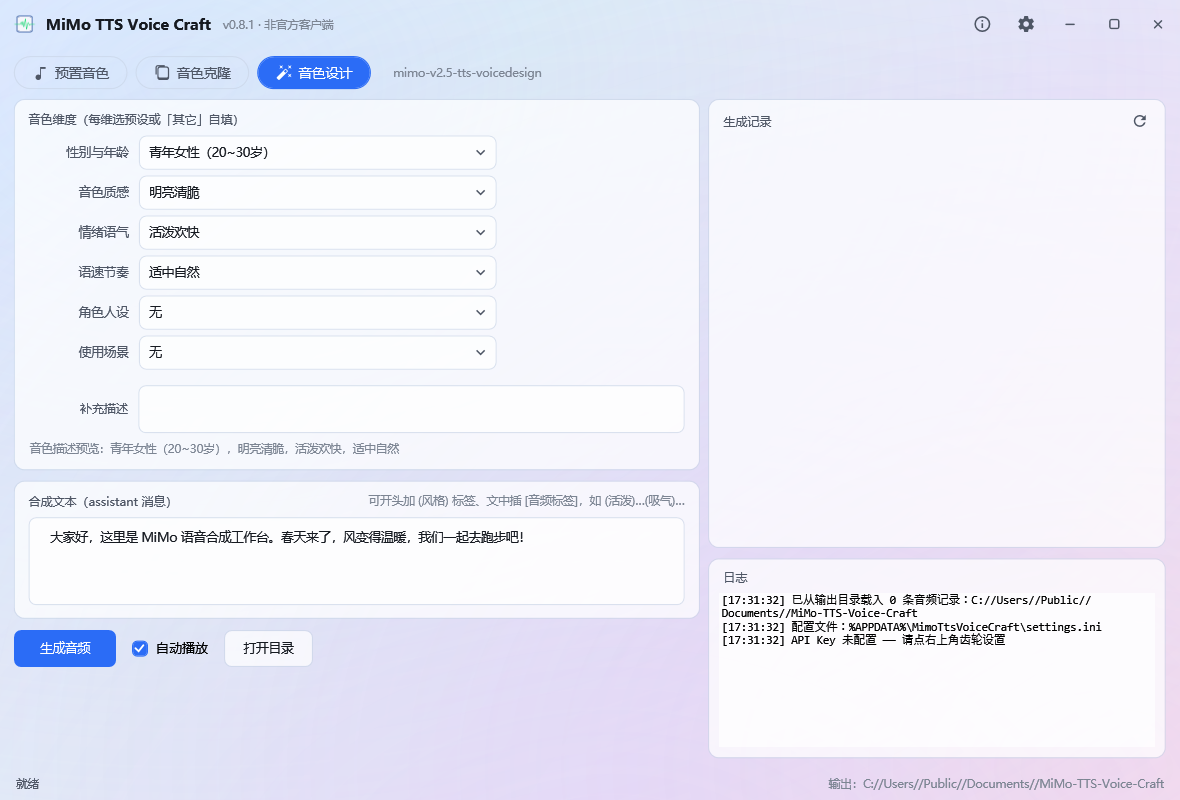
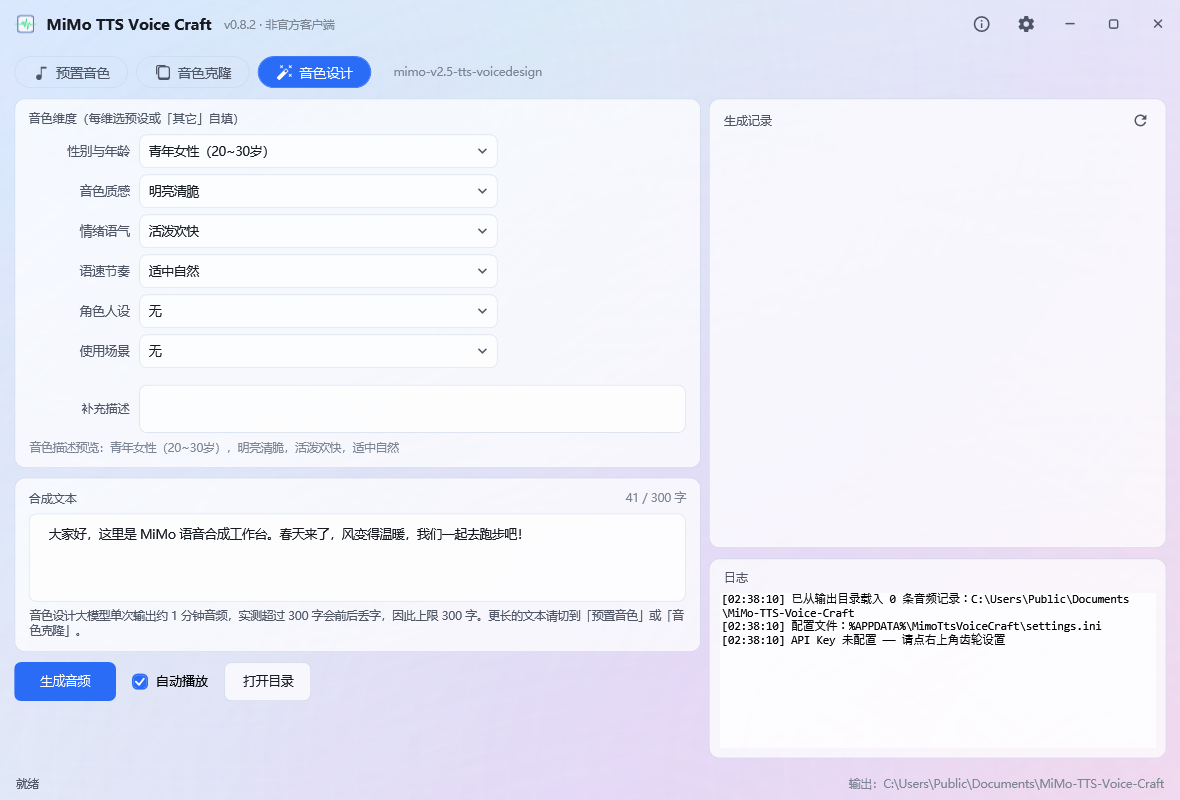
feat: 合成文本字数统计 + 音色设计 300 字上限（v0.8.2）
- 三模块共用的「合成文本」标题精简为「合成文本」，去掉 (assistant 消息) 与行内标签提示
- 右上角新增实时字数统计：预置/克隆显示「N 字」，音色设计显示「N / 300 字」并按余量变色
- 音色设计模式限制 300 字：TextBox MaxLength 前置拦截 + 生成前二次校验（该模型超出后静默前后丢字，不报错）
- 新增设计模式上限说明文字，明确实测依据与替代方案
- 版本号升至 0.8.2，README 补功能说明，界面截图重拍

diff --git a/MainWindow.xaml b/MainWindow.xaml
@@ -100,7 +100,7 @@
                            RenderOptions.BitmapScalingMode="HighQuality" />
                     <TextBlock Text="MiMo TTS Voice Craft" Margin="10,0,0,0" VerticalAlignment="Center"
                                FontSize="15" FontWeight="SemiBold" Foreground="{DynamicResource TextBrush}" />
-                    <TextBlock x:Name="TitleHint" Text="v0.8.1 · 非官方客户端" Margin="12,2,0,0"
+                    <TextBlock x:Name="TitleHint" Text="v0.8.2 · 非官方客户端" Margin="12,2,0,0"
                                VerticalAlignment="Center" Style="{DynamicResource Hint}" />
                 </StackPanel>
                 <StackPanel Orientation="Horizontal" HorizontalAlignment="Right" VerticalAlignment="Center">
@@ -247,14 +247,20 @@
                     <Border Grid.Row="1" Style="{DynamicResource Card}" Padding="14,12" Margin="0,0,0,10">
                         <StackPanel>
                             <Grid Margin="0,0,0,8">
-                                <TextBlock Text="合成文本（assistant 消息）" Style="{DynamicResource Label}" />
-                                <TextBlock HorizontalAlignment="Right" Style="{DynamicResource Hint}"
-                                           Text="可开头加 (风格) 标签、文中插 [音频标签]，如 (活泼)…(吸气)…" />
+                                <TextBlock Text="合成文本" Style="{DynamicResource Label}" />
+                                <TextBlock x:Name="TxtTextCount" HorizontalAlignment="Right"
+                                           Style="{DynamicResource Hint}" Text="0 字"
+                                           ToolTip="当前文本字数；音色设计模式下会同时显示上限" />
                             </Grid>
                             <TextBox x:Name="TxtText" Style="{DynamicResource ModernTextBox}" MinHeight="88"
                                      AcceptsReturn="True" TextWrapping="Wrap" VerticalScrollBarVisibility="Auto"
                                      VerticalContentAlignment="Top" Padding="9,6"
+                                     TextChanged="TxtText_TextChanged"
                                      Text="大家好，这里是 MiMo 语音合成工作台。春天来了，风变得温暖，我们一起去跑步吧！" />
+                            <TextBlock x:Name="DesignLimitHint" Style="{DynamicResource Hint}" Margin="1,7,0,0"
+                                       TextWrapping="Wrap" Visibility="Collapsed"
+                                       Foreground="{DynamicResource SubTextBrush}"
+                                       Text="音色设计大模型单次输出约 1 分钟音频，实测超过 300 字会前后丢字，因此上限 300 字。更长的文本请切到「预置音色」或「音色克隆」。" />
                         </StackPanel>
                     </Border>
 

diff --git a/MainWindow.xaml.cs b/MainWindow.xaml.cs
@@ -21,6 +21,15 @@ public partial class MainWindow : Window
         { "mimo_default", "冰糖", "茉莉", "苏打", "白桦", "Mia", "Chloe", "Milo", "Dean" };
 
     private TtsModelKind _kind = TtsModelKind.Preset;
+
+    /// <summary>
+    /// 音色设计（voicedesign）模型的实用字数上限。
+    /// 实测：该模型输出 token 恒定在 365~526，对应音频 58~84 秒，与输入字数无关；
+    /// 300 字以内内容完整，超过后表现为「开头编造、中间跳跃、结尾断掉」。
+    /// 预置 / 克隆不受此限（预置 2100 字实测 406~418 秒完整）。
+    /// </summary>
+    private const int DesignTextLimit = 300;
+
     // NAudio 播放（每次加载新建一对 output+stream，切换时先释放，避免多路叠加）
     private WaveOutEvent _out;
     private WaveStream _stream;
@@ -111,6 +120,7 @@ public partial class MainWindow : Window
 
         Loaded += (_, _) =>
         {
+            UpdateTextMetrics();               // XAML 里初始文本的字数统计
             _ = Task.Run(WarmUpAudioDevice);   // 后台预热音频端点（静音），避免首次播放丢首缓冲
             RunSelfCheckIfRequested();
             if (App.AudioTestPath != null) RunAudioSelfTest();
@@ -454,6 +464,47 @@ public partial class MainWindow : Window
         PanelDesign.Visibility = _kind == TtsModelKind.Design ? Visibility.Visible : Visibility.Collapsed;
         CardStyle.Visibility = _kind == TtsModelKind.Design ? Visibility.Collapsed : Visibility.Visible;
         ModelIdText.Text = ModelIds.Of(_kind);
+        UpdateTextMetrics();
+    }
+
+    // ---------------- 字数统计 / 设计模型上限 ----------------
+
+    private void TxtText_TextChanged(object sender, TextChangedEventArgs e) => UpdateTextMetrics();
+
+    /// <summary>
+    /// 刷新「合成文本」右上角字数统计：
+    /// 预置 / 克隆只显示「N 字」；音色设计显示「N / 300 字」，接近与超限分别用警示色。
+    /// 同时把文本框 MaxLength 与模式绑定，从输入源头挡住超限。
+    /// </summary>
+    private void UpdateTextMetrics()
+    {
+        if (TxtText == null || TxtTextCount == null || DesignLimitHint == null) return;
+
+        int n = TxtText.Text?.Length ?? 0;
+        bool design = _kind == TtsModelKind.Design;
+
+        DesignLimitHint.Visibility = design ? Visibility.Visible : Visibility.Collapsed;
+
+        if (design)
+        {
+            TxtTextCount.Text = $"{n} / {DesignTextLimit} 字";
+            var near = n >= DesignTextLimit - 30;
+            TxtTextCount.Foreground = n > DesignTextLimit
+                ? (Brush)FindResource("ErrBrush")
+                : near ? (Brush)FindResource("WarnBrush") : (Brush)FindResource("MutedBrush");
+            // 说明文字跟着状态变色：平时中性，接近/达到上限转警示，超限转错误
+            DesignLimitHint.Foreground = n > DesignTextLimit
+                ? (Brush)FindResource("ErrBrush")
+                : near ? (Brush)FindResource("WarnBrush") : (Brush)FindResource("SubTextBrush");
+            TxtText.MaxLength = DesignTextLimit;
+        }
+        else
+        {
+            TxtTextCount.Text = $"{n} 字";
+            TxtTextCount.Foreground = (Brush)FindResource("MutedBrush");
+            DesignLimitHint.Foreground = (Brush)FindResource("SubTextBrush");
+            TxtText.MaxLength = 0;          // 0 = 不限制
+        }
     }
 
     private void BuildDesignDims()
@@ -582,10 +633,28 @@ public partial class MainWindow : Window
             return;
         }
 
+        var text = TxtText.Text ?? "";
+        if (string.IsNullOrWhiteSpace(text))
+        {
+            Log("合成文本为空。");
+            StatusLeft.Text = "请先输入要合成的文本";
+            TxtText.Focus();
+            return;
+        }
+        // 音色设计模型有硬输出上限，超限不会报错、只会静默丢字，故在发请求前挡住
+        if (_kind == TtsModelKind.Design && text.Length > DesignTextLimit)
+        {
+            Log($"✗ 音色设计单次上限 {DesignTextLimit} 字，当前 {text.Length} 字（超出 {text.Length - DesignTextLimit} 字）。" +
+                "该模型超出后会前后丢字，请删减，或切换到「预置音色」/「音色克隆」。");
+            StatusLeft.Text = $"音色设计上限 {DesignTextLimit} 字，当前超出 {text.Length - DesignTextLimit} 字";
+            TxtText.Focus();
+            return;
+        }
+
         var job = new TtsJob
         {
             Kind = _kind,
-            Text = TxtText.Text,
+            Text = text,
             Instruction = TxtStyle.Text,
             VoiceId = CmbVoice.SelectedItem as string ?? "mimo_default",
             RefPath = TxtRefPath.Text,

diff --git a/README.md b/README.md
@@ -6,7 +6,7 @@
 
 **非官方** MiMo-V2.5-TTS 语音合成桌面工作台 · Windows / .NET 8 / WPF
 
-版本 **0.8.1** · MIT License · © 2026 BillChen
+版本 **0.8.2** · MIT License · © 2026 BillChen
 
 </div>
 
@@ -31,6 +31,7 @@
 | **音色克隆** | `mimo-v2.5-tts-voiceclone`：mp3 / wav 参考音频（Base64 ≤ 10MB），自动校验格式与体积 |
 | **音色设计** | `mimo-v2.5-tts-voicedesign`：6 个维度下拉（性别年龄 / 音色质感 / 情绪语气 / 语速节奏 / 角色人设 / 使用场景，各含预设与「其它」自填）+ 补充描述，实时预览拼装出的音色描述 |
 | **文本控制** | 开头 `(风格)` 标签、文中 `[音频标签]`（吸气 / 停顿 / 情绪 / 哭笑等），与自然语言风格指令可叠加 |
+| **字数统计** | 合成文本框右上角实时显示字数；音色设计模式显示 `N / 300 字`，接近上限转警示色、超限直接拦截提交（该模型超出后不会报错，只会**静默前后丢字**） |
 | **输出格式** | wav / mp3 / pcm / pcm16（pcm 为无文件头裸流，24kHz 单声道 16bit） |
 | **播放器** | 内嵌播放 / 暂停 / 拖动定位，自动播放可开关；播放前插入数字静音前导，规避部分声卡起播丢首缓冲导致的「吞字」 |
 | **记录管理** | 启动自动列出输出目录音频，支持重命名、单项删除（文件移入回收站） |
